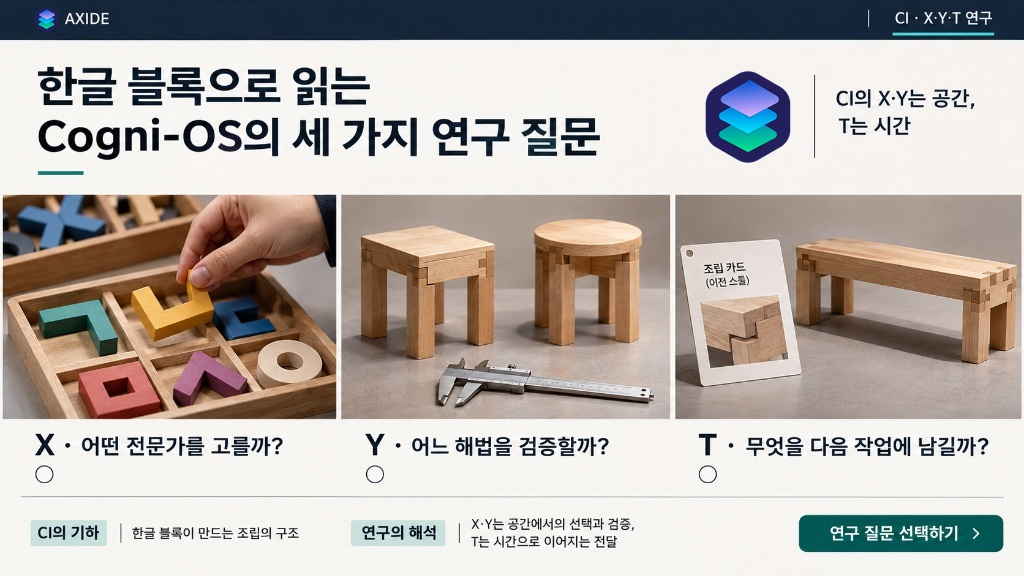
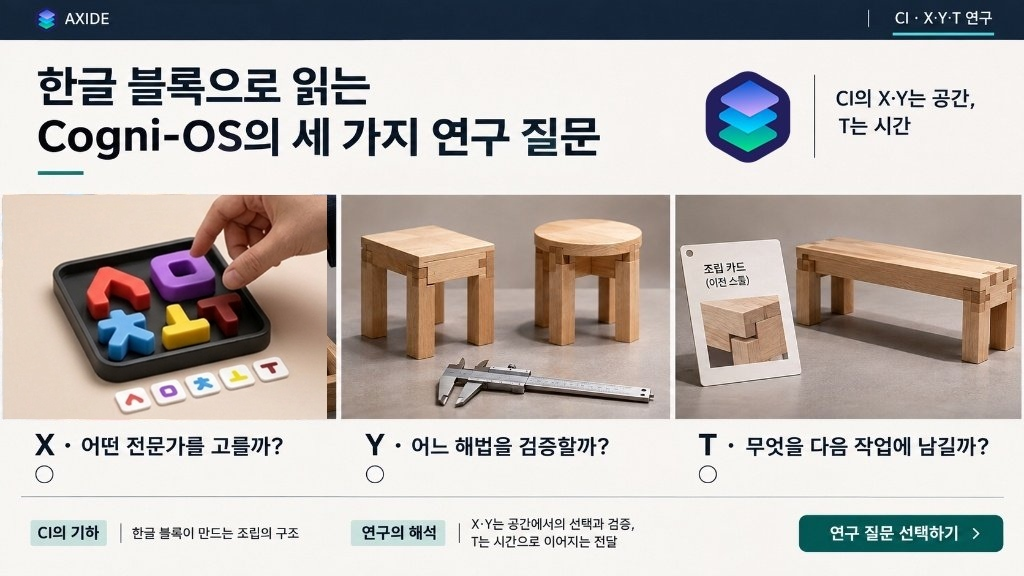
feat(story,service): update X panel in story-xyt-3-questions-summary.jpg with 5-block Hangul puzzle tray

Changed region(s): [[0.0, 0.3125, 0.3438, 0.75]]

diff --git a/service.html b/service.html
@@ -405,8 +405,8 @@
                             </div>
                         </div>
                         <div class="col-12">
-                            <div class="rounded-4 overflow-hidden" onclick="openStoryLightbox('assets/images/story/story-xyt-3-questions-summary.jpg?v=20261105v109', 'AXIDE CI · X·Y·T 연구 — 한글 블록으로 읽는 Cogni-OS의 세 가지 연구 질문: X(어떤 전문가를 고를까?), Y(어느 해법을 검증할까?), T(무엇을 다음 작업에 남길까?)', false)" style="border: 1px solid rgba(56, 189, 248, 0.45); box-shadow: 0 20px 50px rgba(2, 6, 23, 0.55); background: #070b14; cursor: zoom-in;">
-                                <img src="assets/images/story/story-xyt-3-questions-summary.jpg?v=20261105v109" alt="AXIDE CI · X·Y·T 연구 마무리 요약 — 한글 블록으로 읽는 Cogni-OS의 세 가지 연구 질문: X(어떤 전문가를 고를까?), Y(어느 해법을 검증할까?), T(무엇을 다음 작업에 남길까?) · CI의 X·Y는 공간, T는 시간" style="width: 100%; height: auto; display: block;" decoding="async" loading="lazy">
+                            <div class="rounded-4 overflow-hidden" onclick="openStoryLightbox('assets/images/story/story-xyt-3-questions-summary.jpg?v=20261107_hangul_tray_v2', 'AXIDE CI · X·Y·T 연구 — 한글 블록으로 읽는 Cogni-OS의 세 가지 연구 질문: X(어떤 전문가를 고를까?), Y(어느 해법을 검증할까?), T(무엇을 다음 작업에 남길까?)', false)" style="border: 1px solid rgba(56, 189, 248, 0.45); box-shadow: 0 20px 50px rgba(2, 6, 23, 0.55); background: #070b14; cursor: zoom-in;">
+                                <img src="assets/images/story/story-xyt-3-questions-summary.jpg?v=20261107_hangul_tray_v2" alt="AXIDE CI · X·Y·T 연구 마무리 요약 — 한글 블록으로 읽는 Cogni-OS의 세 가지 연구 질문: X(어떤 전문가를 고를까?), Y(어느 해법을 검증할까?), T(무엇을 다음 작업에 남길까?) · CI의 X·Y는 공간, T는 시간" style="width: 100%; height: auto; display: block;" decoding="async" loading="lazy">
                             </div>
                         </div>
                     </div>

diff --git a/story.html b/story.html
@@ -326,8 +326,8 @@
                         </div>
                     </div>
                     <div class="mb-24">
-                        <div class="rounded-4 overflow-hidden" onclick="openStoryLightbox('assets/images/story/story-xyt-3-questions-summary.jpg?v=20261105v109', 'AXIDE CI · X·Y·T 연구 — 한글 블록으로 읽는 Cogni-OS의 세 가지 연구 질문: X(어떤 전문가를 고를까?), Y(어느 해법을 검증할까?), T(무엇을 다음 작업에 남길까?)', false)" style="border: 1px solid rgba(56, 189, 248, 0.45); box-shadow: 0 20px 50px rgba(2, 6, 23, 0.55); background: #070b14; cursor: zoom-in;">
-                            <img src="assets/images/story/story-xyt-3-questions-summary.jpg?v=20261105v109" alt="AXIDE CI · X·Y·T 연구 마무리 요약 — 한글 블록으로 읽는 Cogni-OS의 세 가지 연구 질문: X(어떤 전문가를 고를까?), Y(어느 해법을 검증할까?), T(무엇을 다음 작업에 남길까?) · CI의 X·Y는 공간, T는 시간" style="width: 100%; height: auto; display: block;" decoding="async" loading="lazy">
+                        <div class="rounded-4 overflow-hidden" onclick="openStoryLightbox('assets/images/story/story-xyt-3-questions-summary.jpg?v=20261107_hangul_tray_v2', 'AXIDE CI · X·Y·T 연구 — 한글 블록으로 읽는 Cogni-OS의 세 가지 연구 질문: X(어떤 전문가를 고를까?), Y(어느 해법을 검증할까?), T(무엇을 다음 작업에 남길까?)', false)" style="border: 1px solid rgba(56, 189, 248, 0.45); box-shadow: 0 20px 50px rgba(2, 6, 23, 0.55); background: #070b14; cursor: zoom-in;">
+                            <img src="assets/images/story/story-xyt-3-questions-summary.jpg?v=20261107_hangul_tray_v2" alt="AXIDE CI · X·Y·T 연구 마무리 요약 — 한글 블록으로 읽는 Cogni-OS의 세 가지 연구 질문: X(어떤 전문가를 고를까?), Y(어느 해법을 검증할까?), T(무엇을 다음 작업에 남길까?) · CI의 X·Y는 공간, T는 시간" style="width: 100%; height: auto; display: block;" decoding="async" loading="lazy">
                         </div>
                     </div>
                     <div class="mb-24">
